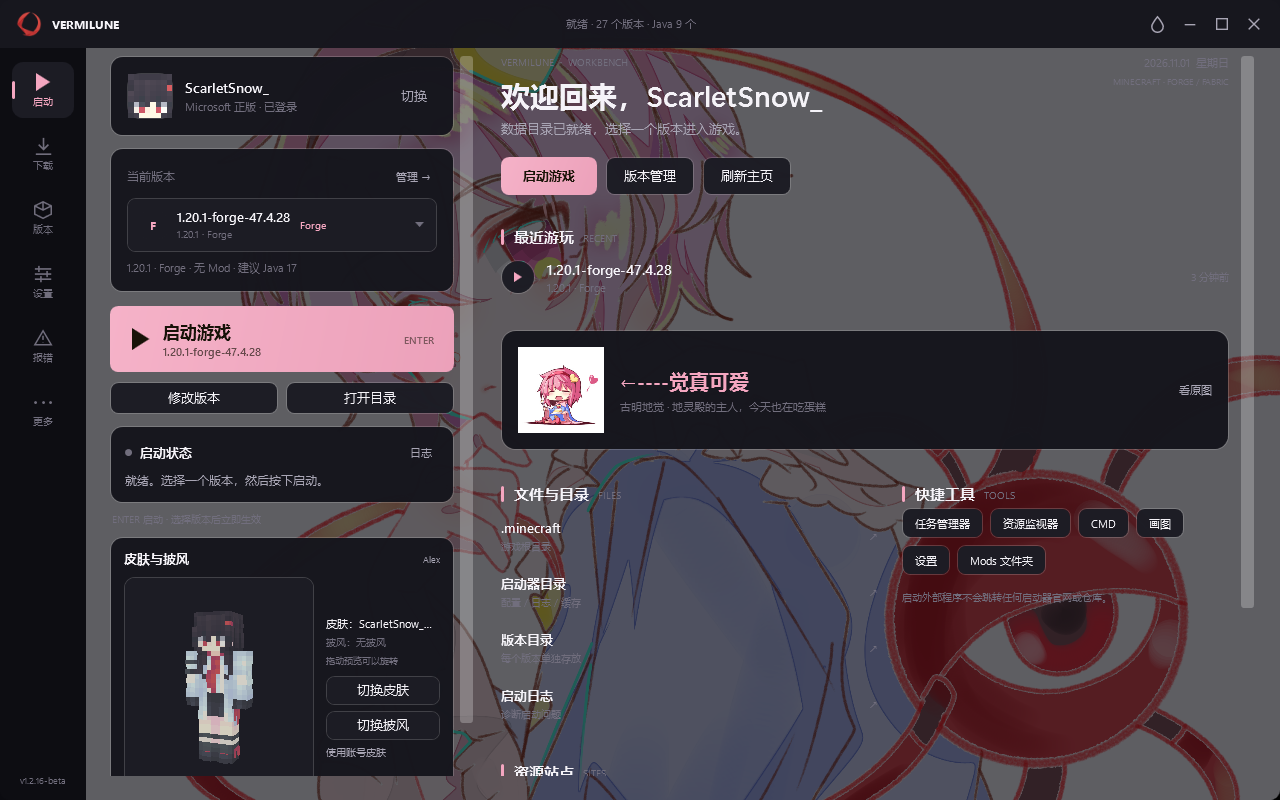
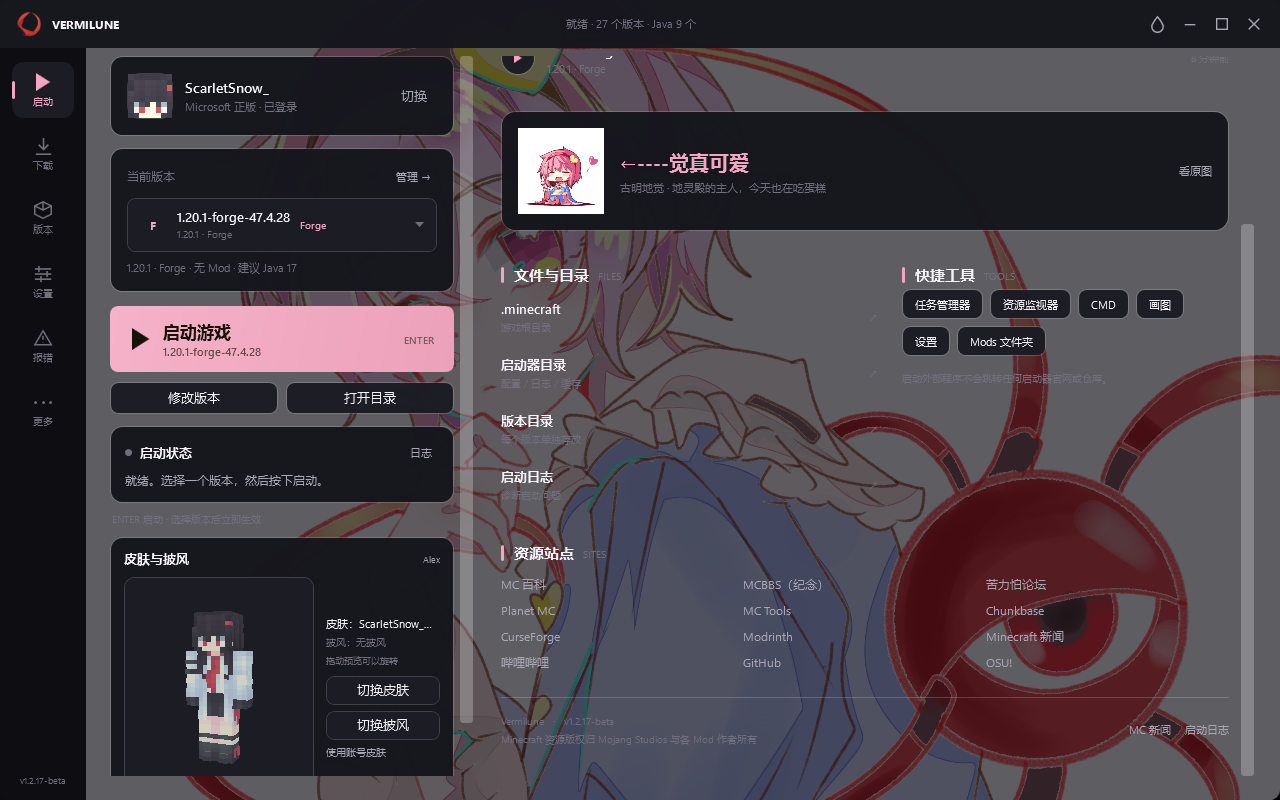
Bump version to 1.2.17-beta

diff --git a/UI/Pages/MorePage.xaml b/UI/Pages/MorePage.xaml
@@ -30,7 +30,7 @@
                             <TextBlock Text="Vermilune" FontFamily="{DynamicResource DisplayFont}" FontSize="24" FontWeight="SemiBold" />
                             <TextBlock Text="Minecraft 启动器 · .NET 10 / WPF" FontSize="11.5"
                                        Foreground="{DynamicResource TextMutedBrush}" Margin="0,6,0,0" />
-                            <TextBlock Text="版本 1.2.16-beta" FontSize="10.5" Foreground="{DynamicResource TextMutedBrush}" Margin="0,4,0,0" />
+                            <TextBlock Text="版本 1.2.17-beta" FontSize="10.5" Foreground="{DynamicResource TextMutedBrush}" Margin="0,4,0,0" />
                         </StackPanel>
                         <StackPanel Grid.Column="2" VerticalAlignment="Center">
                             <Button Style="{StaticResource PrimaryButton}" Height="34" Content="打开数据目录" Click="OpenData_Click" />

diff --git a/UI/Pages/SettingsPage.xaml b/UI/Pages/SettingsPage.xaml
@@ -304,7 +304,7 @@
                 <Border Style="{StaticResource Card}" Margin="0,12,0,0">
                     <StackPanel>
                         <TextBlock Text="关于 Vermilune" Style="{StaticResource SectionHeader}" />
-                        <TextBlock Text="版本 1.2.16-beta  ·  Minecraft 启动器  ·  .NET 10 / WPF"
+                        <TextBlock Text="版本 1.2.17-beta  ·  Minecraft 启动器  ·  .NET 10 / WPF"
                                    Style="{StaticResource Hint}" Margin="0,7,0,0" />
                         <TextBlock Text="启动、下载、Mod 管理与诊断功能都在本地完成。"
                                    Style="{StaticResource Hint}" Margin="0,7,0,0" />

diff --git a/UI/Pages/LaunchPage.xaml b/UI/Pages/LaunchPage.xaml
@@ -525,7 +525,7 @@
                             <ColumnDefinition Width="Auto" />
                         </Grid.ColumnDefinitions>
                         <StackPanel>
-                            <TextBlock Text="Vermilune   ·   v1.2.16-beta" FontSize="10"
+                            <TextBlock Text="Vermilune   ·   v1.2.17-beta" FontSize="10"
                                        Foreground="{DynamicResource TextMutedBrush}" />
                             <TextBlock Text="Minecraft 资源版权归 Mojang Studios 与各 Mod 作者所有" FontSize="10"
                                        Foreground="{DynamicResource TextMutedBrush}" Margin="0,4,0,0" />

diff --git a/MainWindow.xaml b/MainWindow.xaml
@@ -162,7 +162,7 @@
                             </StackPanel>
 
                             <StackPanel Grid.Row="1" Margin="0,0,0,14" HorizontalAlignment="Center">
-                                <TextBlock x:Name="RailVersion" Text="v1.2.16-beta" FontSize="9"
+                                <TextBlock x:Name="RailVersion" Text="v1.2.17-beta" FontSize="9"
                                            Foreground="{DynamicResource TextMutedBrush}" HorizontalAlignment="Center" />
                             </StackPanel>
                         </Grid>

diff --git a/MainWindow.xaml.cs b/MainWindow.xaml.cs
@@ -62,7 +62,7 @@ public partial class MainWindow : Window
         BgOpacitySlider.Value = s.BackgroundImageOpacity * 100;
         _updatingSliders = false;
         OpacityValue.Text = $"{s.UiOpacity * 100:0}%";
-        RailVersion.Text = "v1.2.16-beta";
+        RailVersion.Text = "v1.2.17-beta";
 
         LauncherApp.I.SettingsChanged += OnSettingsChanged;
         LauncherApp.I.VersionsChanged += OnVersionsChanged;

diff --git a/UI/Pages/MorePage.xaml.cs b/UI/Pages/MorePage.xaml.cs
@@ -21,7 +21,7 @@ public partial class MorePage : UserControl, IPage
     {
         try
         {
-            EnvText.Text = $"Vermilune 1.2.16-beta\n.NET {Environment.Version}\n{Environment.OSVersion}\n数据目录：{AppPaths.DataDir}";
+            EnvText.Text = $"Vermilune 1.2.17-beta\n.NET {Environment.Version}\n{Environment.OSVersion}\n数据目录：{AppPaths.DataDir}";
         }
         catch { }
     }

diff --git a/Core/VersionModels.cs b/Core/VersionModels.cs
@@ -169,7 +169,7 @@ public sealed class LaunchOptions
     public string ExtraJvmArgs { get; init; } = "";
     public string ExtraGameArgs { get; init; } = "";
     public string LauncherName { get; init; } = "Vermilune";
-    public string LauncherVersion { get; init; } = "1.2.16-beta";
+    public string LauncherVersion { get; init; } = "1.2.17-beta";
 }
 
 public static class RuleEvaluator

diff --git a/UI/Pages/LaunchPage.xaml.cs b/UI/Pages/LaunchPage.xaml.cs
@@ -523,7 +523,7 @@ public partial class LaunchPage : UserControl, IPage, INotifyPropertyChanged
             ExtraJvmArgs = instance.JvmArgs,
             ExtraGameArgs = instance.GameArgs,
             LauncherName = "Vermilune",
-            LauncherVersion = "1.2.16-beta"
+            LauncherVersion = "1.2.17-beta"
         };
 
         _cts?.Dispose();

diff --git a/RELEASE_NOTES-v1.2.17-beta.md b/RELEASE_NOTES-v1.2.17-beta.md
@@ -1,0 +1,6 @@
+# Vermilune v1.2.17-beta
+
+- 修复 Forge 启动时 ignoreList 版本名错误导致的模块冲突
+- Forge 部署前自动创建 launcher_profiles.json，安装器不再直接退出
+- 缺少 forge-universal.jar 时自动从 Forge Maven 补全
+- Forge 安装改用 BMCLAPI 映射表，跳过 DownloadMojmaps，不再卡 piston-data.mojang.com

diff --git a/README.md b/README.md
@@ -1,6 +1,6 @@
 # Vermilune
 
-一个使用 **.NET 10 + WPF** 编写的 Windows Minecraft 启动器，当前版本 **v1.2.16-beta**。
+一个使用 **.NET 10 + WPF** 编写的 Windows Minecraft 启动器，当前版本 **v1.2.17-beta**。
 
 界面、版本管理、下载、登录与皮肤预览均在本地完成。
 
